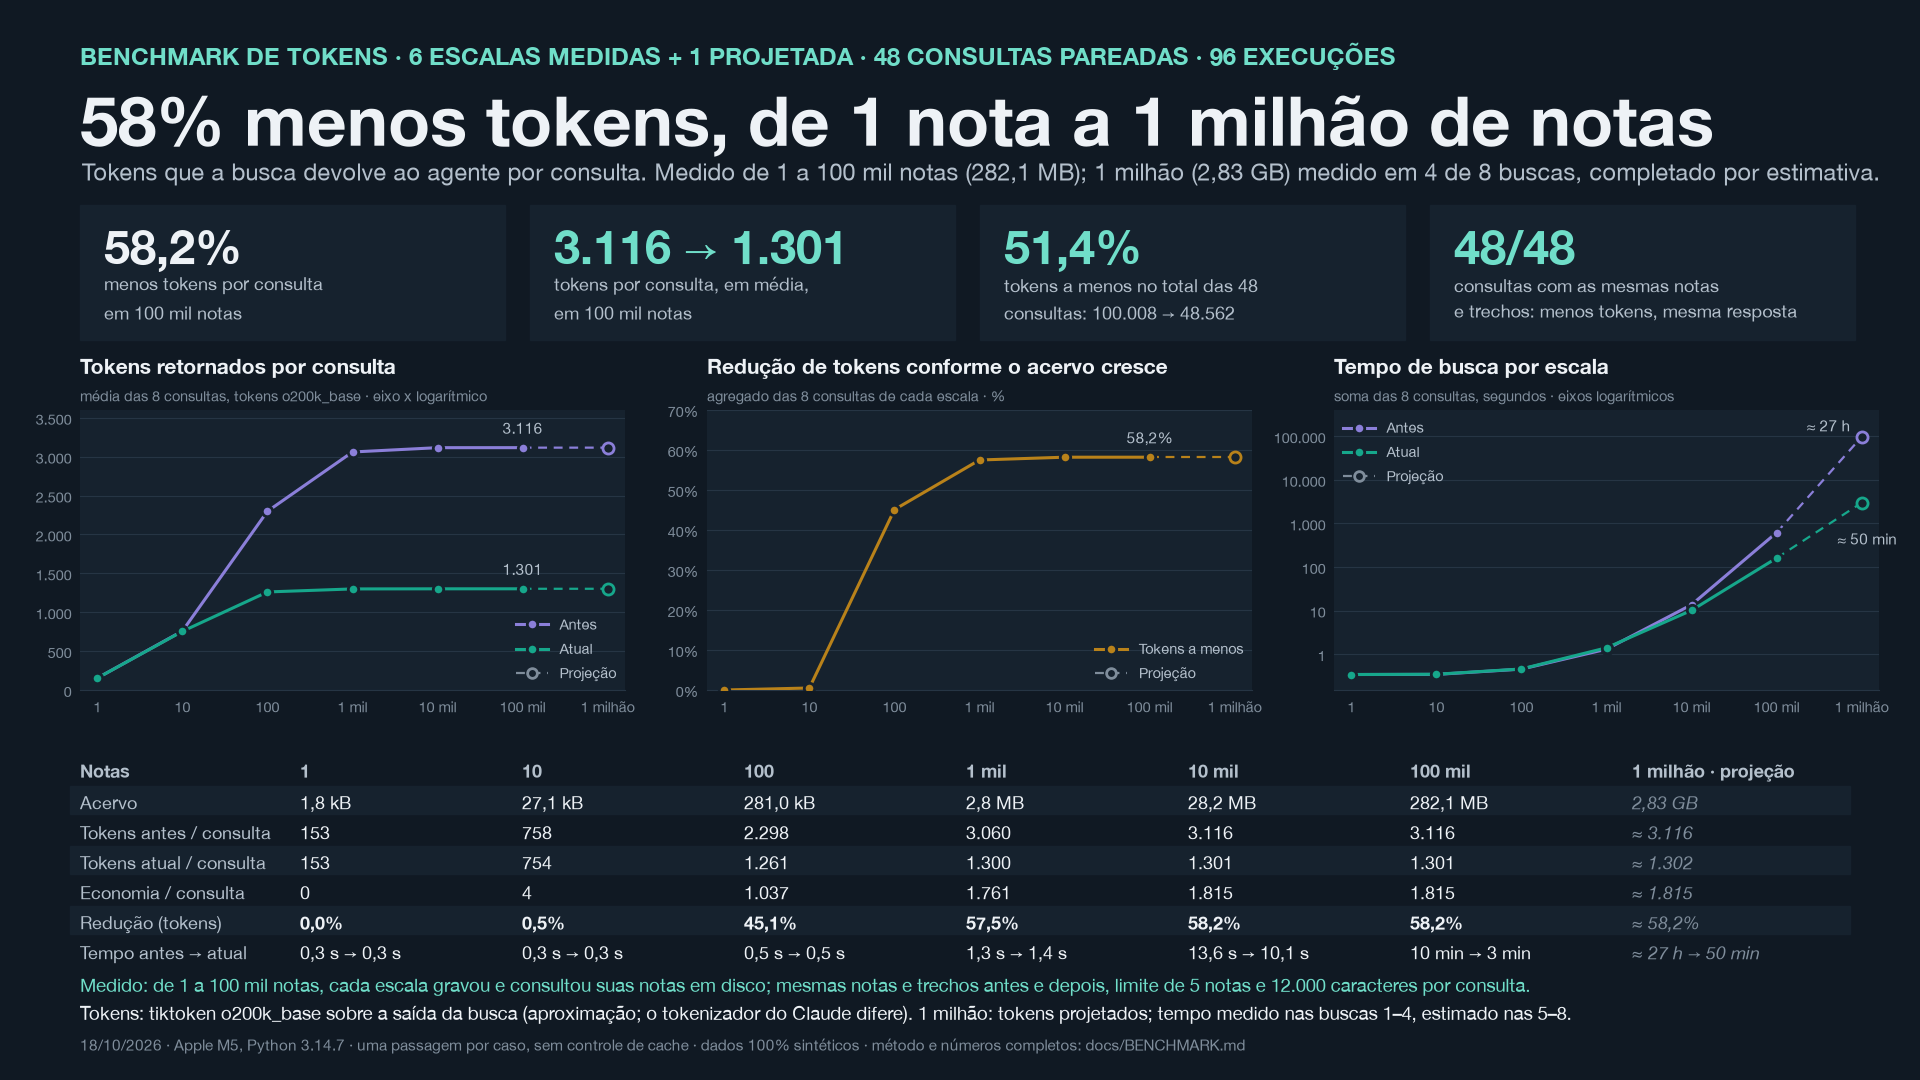
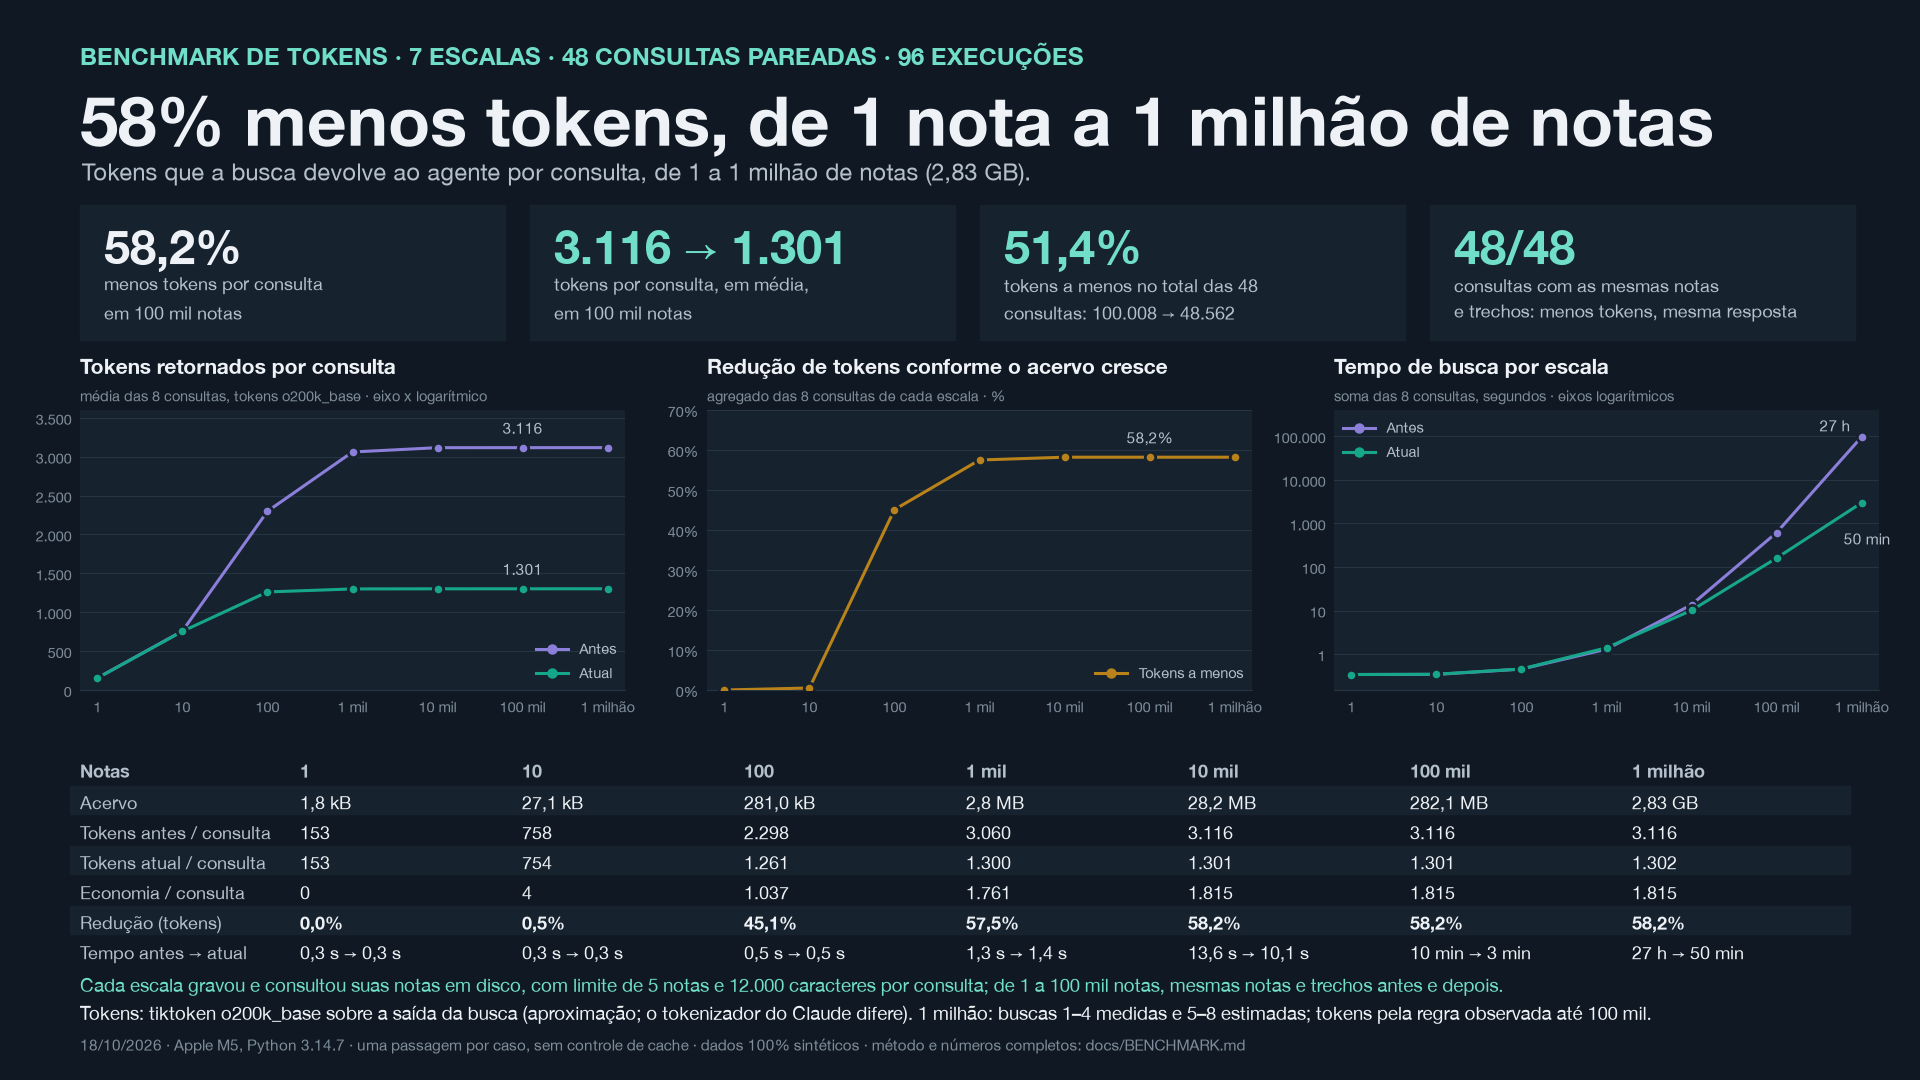
chore: Present 1 million notes as the final benchmark result
Draw the 1M point with solid lines and markers, drop projection styling from tables, and keep a footnote on which searches were measured and which were estimated.

diff --git a/readme.md b/readme.md
@@ -67,11 +67,11 @@ A checagem de testes novos no CNPJ entrou depois de uma rodada de validação, q
 
 ## Benchmark de contexto: de 1 nota a 1 milhão de notas
 
-[![Benchmark de tokens: 58% menos tokens por consulta, medido de 1 a 100.000 notas, com 1 milhão de notas medido em parte e estimado](media/one-pager.png)](media/one-pager.png)
+[![Benchmark de tokens: 58% menos tokens por consulta, de 1 nota a 1 milhão de notas](media/one-pager.png)](media/one-pager.png)
 
 [Ampliar o one pager](media/one-pager.png) · [Baixar o slide editável (PowerPoint)](media/one-pager.pptx)
 
-Análise com dados **inteiramente sintéticos** em sete escalas. **Seis foram medidas:** 1, 10, 100, 1.000, 10.000 e 100.000 notas de conteúdo, até 282,1 MB, com oito consultas distintas por escala: **48 comparações e 96 execuções**. **1 milhão de notas foi medido em parte.** O acervo de 2,83 GB foi gerado em disco, e as consultas 1 a 4 foram medidas nas duas versões: 9,5 h antes e 24,8 min agora. A 5ª da versão anterior passou de 8 h e a execução parou. Com esses tempos, as 8 buscas levariam **≈ 27 h (26–31 h) na versão anterior e ≈ 50 min (42–57 min) na atual**. Caracteres e tokens em 1 milhão são projeção. A primeira projeção de tempo da versão anterior (≈ 7,7 h) ficou bem abaixo do real.
+Análise com dados **inteiramente sintéticos** em sete escalas: 1, 10, 100, 1.000, 10.000, 100.000 e 1 milhão de notas de conteúdo, até 2,83 GB, com oito consultas distintas por escala. De 1 a 100.000 notas foram **48 comparações e 96 execuções**. Em 1 milhão de notas, o resultado é **58,2% menos tokens e 27 h → 50 min nas 8 buscas**: o acervo foi gerado em disco, as consultas 1 a 4 foram medidas nas duas versões (9,5 h → 24,8 min) e as 5 a 8 foram estimadas a partir delas¹.
 
 | Escala | Texto retornado antes | Agora | Redução em caracteres | Redução em tokens* | 8 buscas, antes → agora |
 |---|---:|---:|---:|---:|---:|
@@ -81,12 +81,14 @@ Análise com dados **inteiramente sintéticos** em sete escalas. **Seis foram me
 | 1.000 notas | 82.546 | 40.565 | 50,9% | 57,5% | 1,3 s → 1,4 s |
 | 10.000 notas | 83.872 | 40.579 | 51,6% | 58,2% | 13,6 s → 10,1 s |
 | 100.000 notas | 83.886 | 40.593 | 51,6% | 58,2% | 10 min → 3 min |
-| *1.000.000 notas, projeção e estimativa* | *≈ 83.900* | *≈ 40.607* | *≈ 51,6%* | *≈ 58,2%* | *≈ 27 h → ≈ 50 min* |
+| 1.000.000 notas¹ | 83.900 | 40.607 | 51,6% | 58,2% | 27 h → 50 min |
 | **Total medido, 48 consultas** | **342.640** | **189.284** | **44,8%** | **51,4%** | |
 
 **Mesmas notas e trechos em todas as comparações medidas**, com o mesmo limite de cinco notas e 12.000 caracteres por consulta. Com 1 nota não há o que economizar. A redução aparece a partir de 100 notas e estabiliza entre 50,9% a 51,6% de 1.000 notas em diante, porque as duas versões atingem o mesmo teto. A economia de contexto não custou tempo: em 100.000 notas, a busca atual foi 3,8× mais rápida.
 
 \* Tokens contados com tiktoken `o200k_base`, sem chamar API. Não é o tokenizador do Claude e mede só o texto devolvido pela busca, não a conversa inteira. Os totais somam consultas distintas, e o tamanho do acervo não representa conteúdo enviado à IA.
+
+¹ 1 milhão de notas é o resultado final; não haverá nova medição. Buscas 1 a 4 medidas e 5 a 8 estimadas pelo fator observado nas quatro primeiras (intervalo 26–31 h e 42–57 min). Caracteres e tokens seguem a regra observada até 100.000 notas, e a equivalência das saídas não foi conferida nessa escala.
 
 ### Reproduzir a análise
 
@@ -95,7 +97,7 @@ python3 tools/benchmark_busca.py --ampliado
 python3 tools/benchmark_busca.py --escalas 1 10 100 1000 10000 100000 --parcial progresso.json
 ```
 
-O primeiro comando mede de 1 a 10.000 notas em cerca de 30 segundos. O segundo inclui 100.000 notas e pode ser retomado pelo arquivo de progresso. Há também `--completo`, que inclui 1 milhão de notas: cerca de 4 GB temporários e ≈ 29 h, com `--espera 43200`, porque uma busca da versão anterior passa de 8 h. [Método, projeção, custos e limites](docs/BENCHMARK.md) · [Resultados completos](docs/benchmark-ampliado.json) · [Ensaio anterior, de três escalas](docs/benchmark-tres-escalas-2026-10-16.json). A medição local anterior de 60,9% pertence a uma consulta específica e não é extrapolada para esta bateria. O acervo pessoal não é distribuído.
+O primeiro comando mede de 1 a 10.000 notas em cerca de 30 segundos. O segundo inclui 100.000 notas e pode ser retomado pelo arquivo de progresso. Há também `--completo`, que inclui 1 milhão de notas: cerca de 4 GB temporários e cerca de 29 h, com `--espera 43200`, porque uma busca da versão anterior passa de 8 h. [Método, custos e limites](docs/BENCHMARK.md) · [Resultados completos](docs/benchmark-ampliado.json) · [Ensaio anterior, de três escalas](docs/benchmark-tres-escalas-2026-10-16.json). A medição local anterior de 60,9% pertence a uma consulta específica e não é extrapolada para esta bateria. O acervo pessoal não é distribuído.
 
 ## Arquitetura de delegação
 
